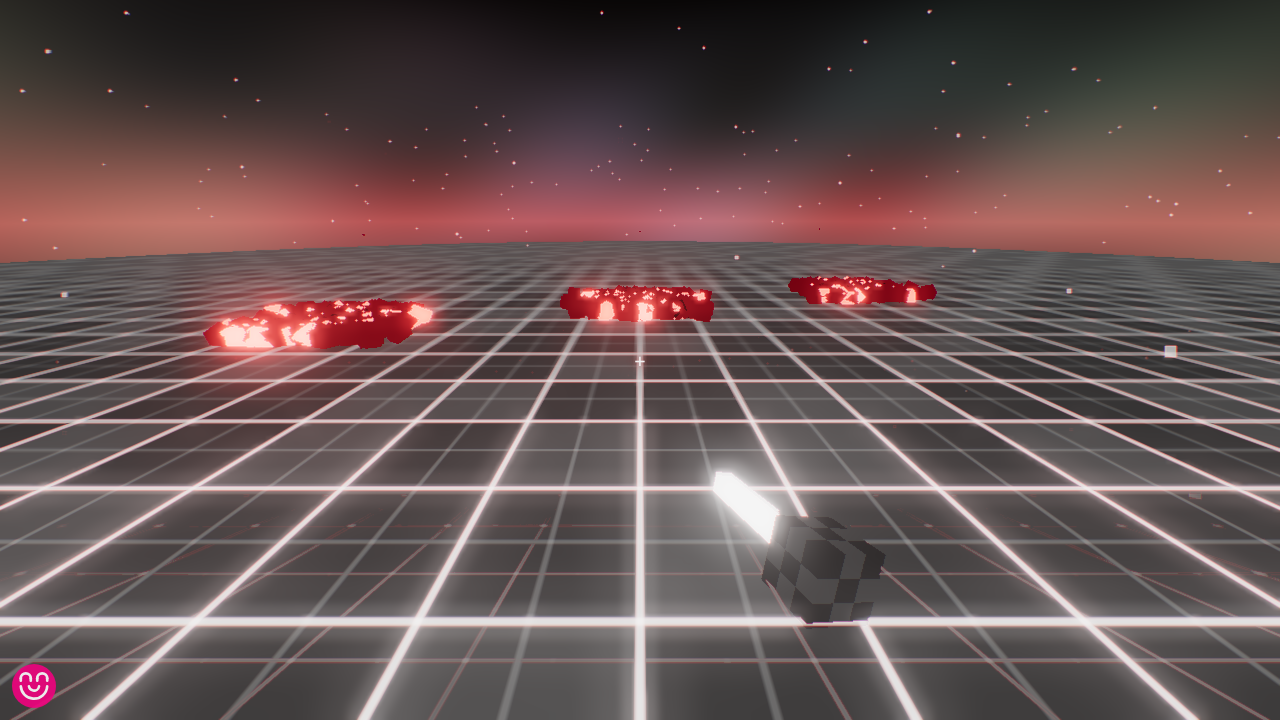
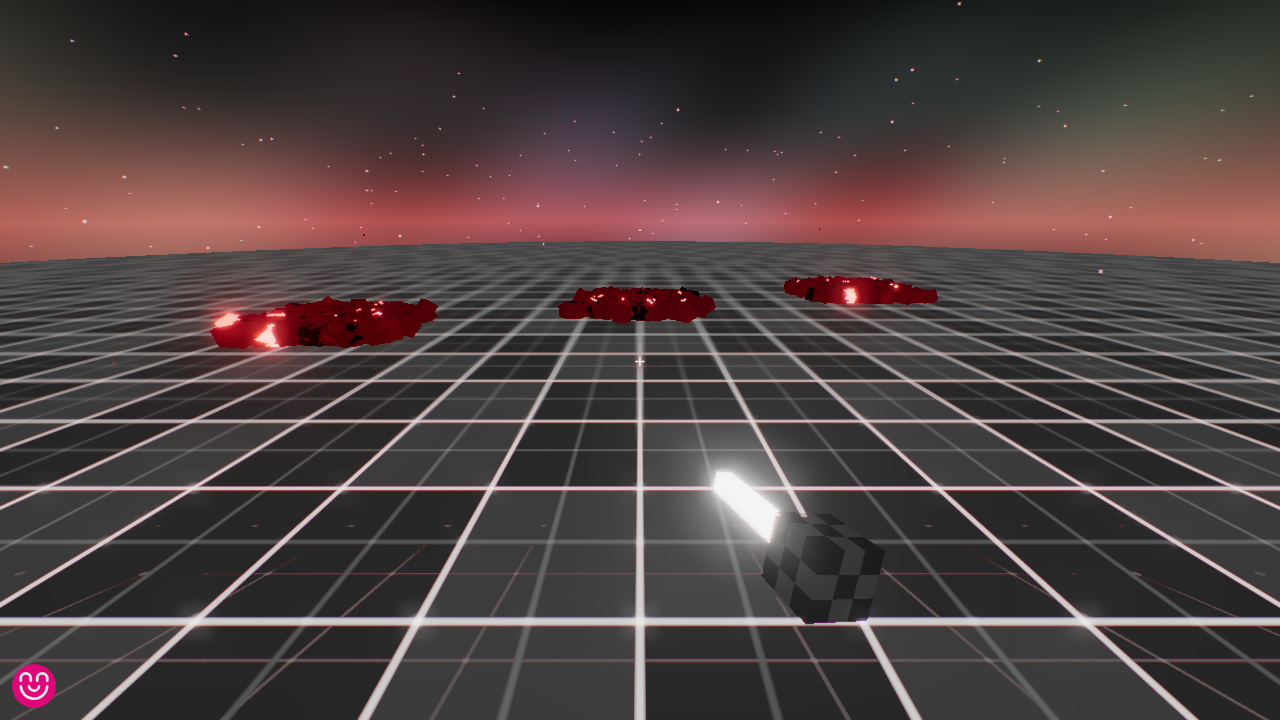
hyperdagger: press kit at v4.32 — hull shots, hull tech note
All six screenshots re-captured against the mesh-hull build; tech notes
gain the alive-skin paragraph.

Claude-Session: https://claude.ai/code/session_01UbUSxwAxqhkJE7r2FheoFc

diff --git a/hyperdagger/press/PRESS.md b/hyperdagger/press/PRESS.md
@@ -82,6 +82,10 @@ shared leaderboard, and a full options menu down to voxel density.
   (sockets, teeth, nasal cavity), and the parser **bakes ambient occlusion** —
   crevices darken, tops lift, a hash grain breaks flat fills — so unlit voxels
   read as material (a dread skull is 9,639 voxels at full detail).
+- While **alive**, an enemy wears a **smoothed mesh hull** generated from its
+  own lattice — culled outer faces, welded corners, heavy Laplacian smoothing,
+  one flat color per face. Damage tears real holes in it and the skin re-forms
+  around the wound; death dissolves it back into the voxels it was made of.
 - Per-voxel animation runs entirely in a **vertex shader** shared by every
   sprite, so density costs nothing on the CPU.
 - Debris, the bone-yard, daggers, orbs and gems are each **one draw call**; the
